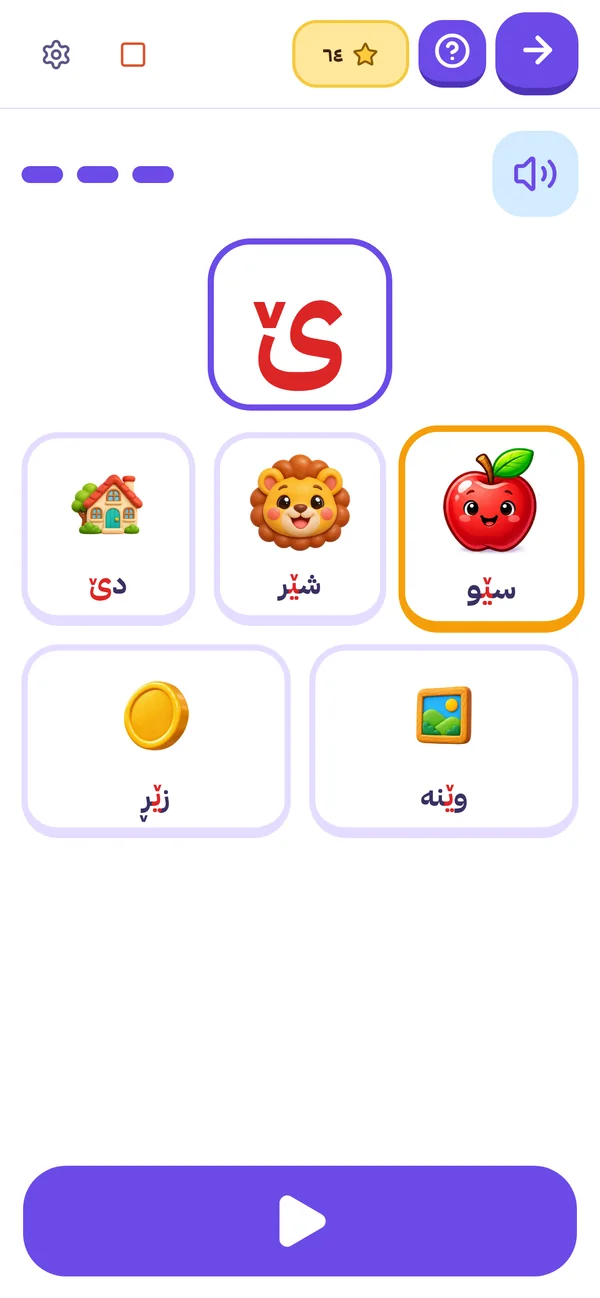
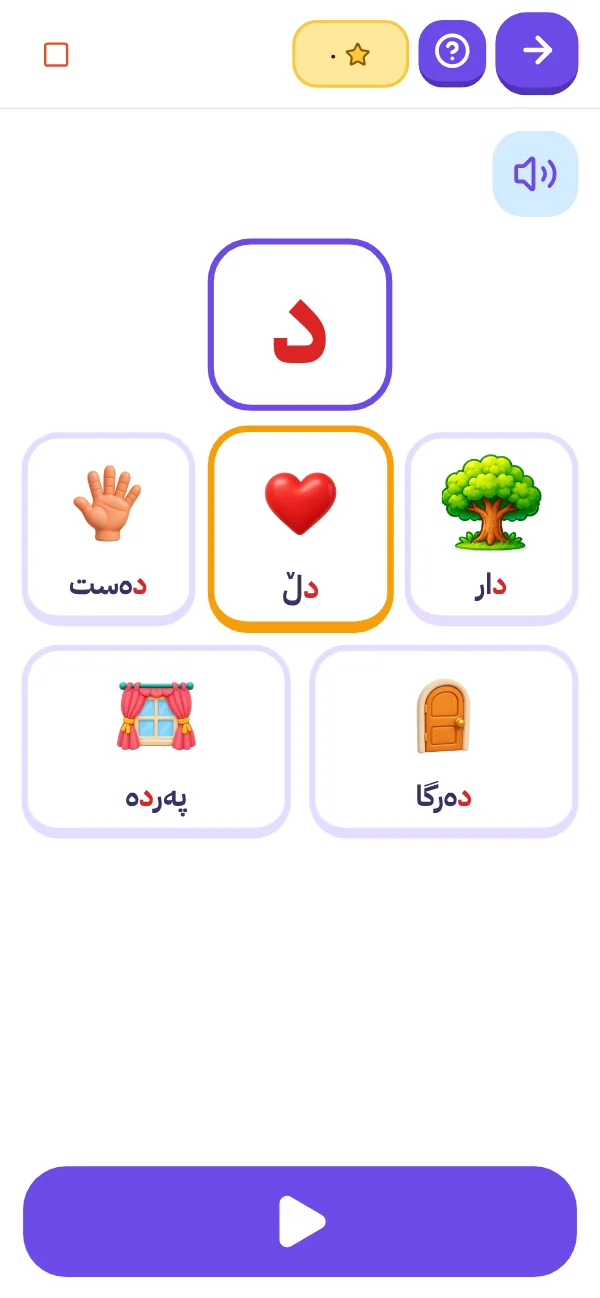
Website: fresh app screenshots, phone download bar, structured data, crown no longer covers the call-to-action title
Claude-Session: https://claude.ai/code/session_01QyPLxqEufTn6xvN4Bjmn7L

diff --git a/docs/index.html b/docs/index.html
@@ -13,6 +13,7 @@
 <meta property="og:type" content="website"><meta property="og:site_name" content="Papula (پەپوولە)">
 <meta property="og:title" content="پەپوولە: ئەلفوبێی کوردی بۆ منداڵان"><meta property="og:description" content="ئەپی فێربوونی ئەلفوبێی کوردی بۆ منداڵان: پیتی ڕۆژانە، یاری، چیرۆک و باخچەی پەپوولە. بێ ڕیکلام و بێ ئینتەرنێت.">
 <meta property="og:url" content="https://papula.chimanova.com/"><meta property="og:image" content="https://papula.chimanova.com/assets/og-ku.jpg"><meta name="twitter:card" content="summary_large_image">
+<script type="application/ld+json">{"@context": "https://schema.org", "@type": "MobileApplication", "name": "Papula (پەپوولە)", "alternateName": "پەپوولە", "description": "Kurdish alphabet app for children aged 3 to 8: a letter a day, voice, games, stories and a butterfly garden. No ads, works offline.", "operatingSystem": "ANDROID", "applicationCategory": "EducationalApplication", "inLanguage": ["ckb", "en"], "audience": {"@type": "PeopleAudience", "suggestedMinAge": 3, "suggestedMaxAge": 8}, "offers": {"@type": "Offer", "price": "0", "priceCurrency": "USD"}, "url": "https://papula.chimanova.com/", "installUrl": "https://play.google.com/store/apps/details?id=com.papula.kids", "image": "https://papula.chimanova.com/assets/og-ku.jpg"}</script>
 <link rel="stylesheet" href="styles.css">
 </head>
 <body><header class="top"><div class="wrap">
@@ -36,7 +37,7 @@
       <ul class="badges"><li><span data-en="34 Kurdish letters" >٣٤ پیتی کوردی</span></li><li><span data-en="Clear Kurdish voice" >دەنگی کوردیی ڕوون</span></li><li><span data-en="Guided by voice and pictures" >ڕێنمایی بە دەنگ و وێنە</span></li></ul>
     </div>
     <div class="stage">
-      <div class="phone tilt"><div class="screen"><img class="on" src="assets/app/home.webp" alt="سکرین شۆتی پەڕەی سەرەکی" width="600" height="1298"><img class="" src="assets/app/words.webp" alt="سکرین شۆتی وشەکان" width="600" height="1298"><img class="" src="assets/app/games.webp" alt="سکرین شۆتی یارییەکان" width="600" height="1298"><img class="" src="assets/app/garden.webp" alt="سکرین شۆتی باخچە" width="600" height="1298"><img class="" src="assets/app/stories.webp" alt="سکرین شۆتی چیرۆک" width="600" height="1298"></div></div>
+      <div class="phone tilt"><div class="screen"><img class="on" src="assets/app/home.webp" alt="سکرین شۆتی پەڕەی سەرەکی" width="600" height="1298"><img class="" src="assets/app/words.webp" alt="سکرین شۆتی وشەکان" width="600" height="1298"><img class="" src="assets/app/practice.webp" alt="سکرین شۆتی یاریی دۆزینەوەی وشە" width="600" height="1298"><img class="" src="assets/app/flower.webp" alt="سکرین شۆتی گوڵی تەواوکراو" width="600" height="1298"><img class="" src="assets/app/games.webp" alt="سکرین شۆتی یارییەکان" width="600" height="1298"><img class="" src="assets/app/garden.webp" alt="سکرین شۆتی باخچە" width="600" height="1298"><img class="" src="assets/app/stories.webp" alt="سکرین شۆتی چیرۆک" width="600" height="1298"></div></div>
       <img class="float " src="assets/pics/butterfly.webp" alt="" width="256" height="256" style="s:150px;inset-block-start:2%;inset-inline-end:-2%;r:-8deg;t:7s">
       <img class="float " src="assets/pics/white-medium-star.webp" alt="" width="256" height="256" style="s:96px;inset-block-start:16%;inset-inline-start:2%;d:.6s;t:5s">
       <img class="float hide-s" src="assets/pics/red-apple.webp" alt="" width="256" height="256" style="s:116px;inset-block-end:14%;inset-inline-start:-2%;d:1.1s;r:-10deg">
@@ -106,7 +107,7 @@
   <img class="float hide-s" src="assets/pics/butterfly.webp" alt="" width="256" height="256" style="s:120px;inset-block-start:8%;inset-inline-start:6%;r:-10deg">
   <img class="float hide-s" src="assets/pics/white-medium-star.webp" alt="" width="256" height="256" style="s:86px;inset-block-end:10%;inset-inline-start:14%;d:.5s">
   <img class="float hide-s" src="assets/pics/lion-face.webp" alt="" width="256" height="256" style="s:120px;inset-block-end:8%;inset-inline-end:8%;d:.8s">
-  <img class="float hide-s" src="assets/pics/crown.webp" alt="" width="256" height="256" style="s:90px;inset-block-start:10%;inset-inline-end:14%;d:.2s">
+  <img class="float hide-s" src="assets/pics/crown.webp" alt="" width="256" height="256" style="s:84px;inset-block-start:5%;inset-inline-end:4%;d:.2s">
   <h2><span data-en="Let your child start today" >با منداڵەکەت ئەمڕۆ دەست پێ بکات</span></h2>
   <p><span data-en="Papula is free and has no ads. One letter, every day." >پەپوولە بێ بەرامبەرە و بێ ڕیکلامە. یەک پیت، ڕۆژانە.</span></p>
   <a class="btn btn-primary" href="https://play.google.com/store/apps/details?id=com.papula.kids"><svg viewBox="0 0 24 24" aria-hidden="true"><path fill="currentColor" d="M5 2.8v18.4c0 .6.7 1 1.2.7l15-9.2c.5-.3.5-1 0-1.3L6.2 2.1C5.7 1.8 5 2.2 5 2.8z"/></svg><span><span data-en="Get it on Google Play" >داگرتن لە Google Play</span></span></a>
@@ -121,5 +122,6 @@
   </div>
   <div class="legal"><span dir="ltr">© <span id="year">2026</span> Papula · Awata Hassan</span><span>com.papula.kids</span></div>
 </div></footer>
+<div class="stick" id="stick" aria-hidden="true"><a class="btn btn-primary" href="https://play.google.com/store/apps/details?id=com.papula.kids" tabindex="-1"><svg viewBox="0 0 24 24" aria-hidden="true"><path fill="currentColor" d="M5 2.8v18.4c0 .6.7 1 1.2.7l15-9.2c.5-.3.5-1 0-1.3L6.2 2.1C5.7 1.8 5 2.2 5 2.8z"/></svg><span><span data-en="Get it on Google Play" >داگرتن لە Google Play</span></span></a></div>
 <script src="script.js"></script>
 </body></html>

diff --git a/docs/styles.css b/docs/styles.css
@@ -259,3 +259,12 @@ details p { padding: 0 0 22px; color: var(--ink-soft); }
   .float.hide-s { display: none; }
   .brand span { font-size: 1.15rem; }
 }
+
+/* Call-to-action card: the title keeps clear of the floating pictures */
+.get-card h2 { max-width: 15em; margin-inline: auto; }
+/* A download bar that follows phone visitors once the first screen is behind them */
+.stick { position: fixed; inset-inline: 0; bottom: 0; z-index: 40; display: none; padding: 10px 16px calc(10px + env(safe-area-inset-bottom)); background: rgba(255, 253, 247, .94); backdrop-filter: blur(10px); -webkit-backdrop-filter: blur(10px); box-shadow: 0 -10px 30px rgba(29, 26, 69, .12); transform: translateY(110%); transition: transform .35s ease; }
+.stick .btn { width: 100%; justify-content: center; min-height: 54px; }
+.stick.on { transform: none; }
+@media (max-width: 640px) { .stick { display: block; } body { padding-bottom: 0; } .foot { padding-bottom: 96px; } }
+@media (prefers-reduced-motion: reduce) { .stick { transition: none; } }

diff --git a/docs/script.js b/docs/script.js
@@ -120,3 +120,15 @@ const ALPHABET_DATA = {
   var y = doc.getElementById('year'); if (y) y.textContent = new Date().getFullYear();
   setLang(saved);
 })();
+
+// The phone download bar shows once the first screen has been scrolled past, and hides again near the end card.
+(function () {
+  var bar = document.getElementById('stick'), hero = document.getElementById('top'), end = document.querySelector('.get');
+  if (!bar || !hero) return;
+  function update() {
+    var past = hero.getBoundingClientRect().bottom < 0;
+    var atEnd = end && end.getBoundingClientRect().top < window.innerHeight * 0.7;
+    bar.classList.toggle('on', past && !atEnd);
+  }
+  window.addEventListener('scroll', update, { passive: true }); window.addEventListener('resize', update); update();
+})();
